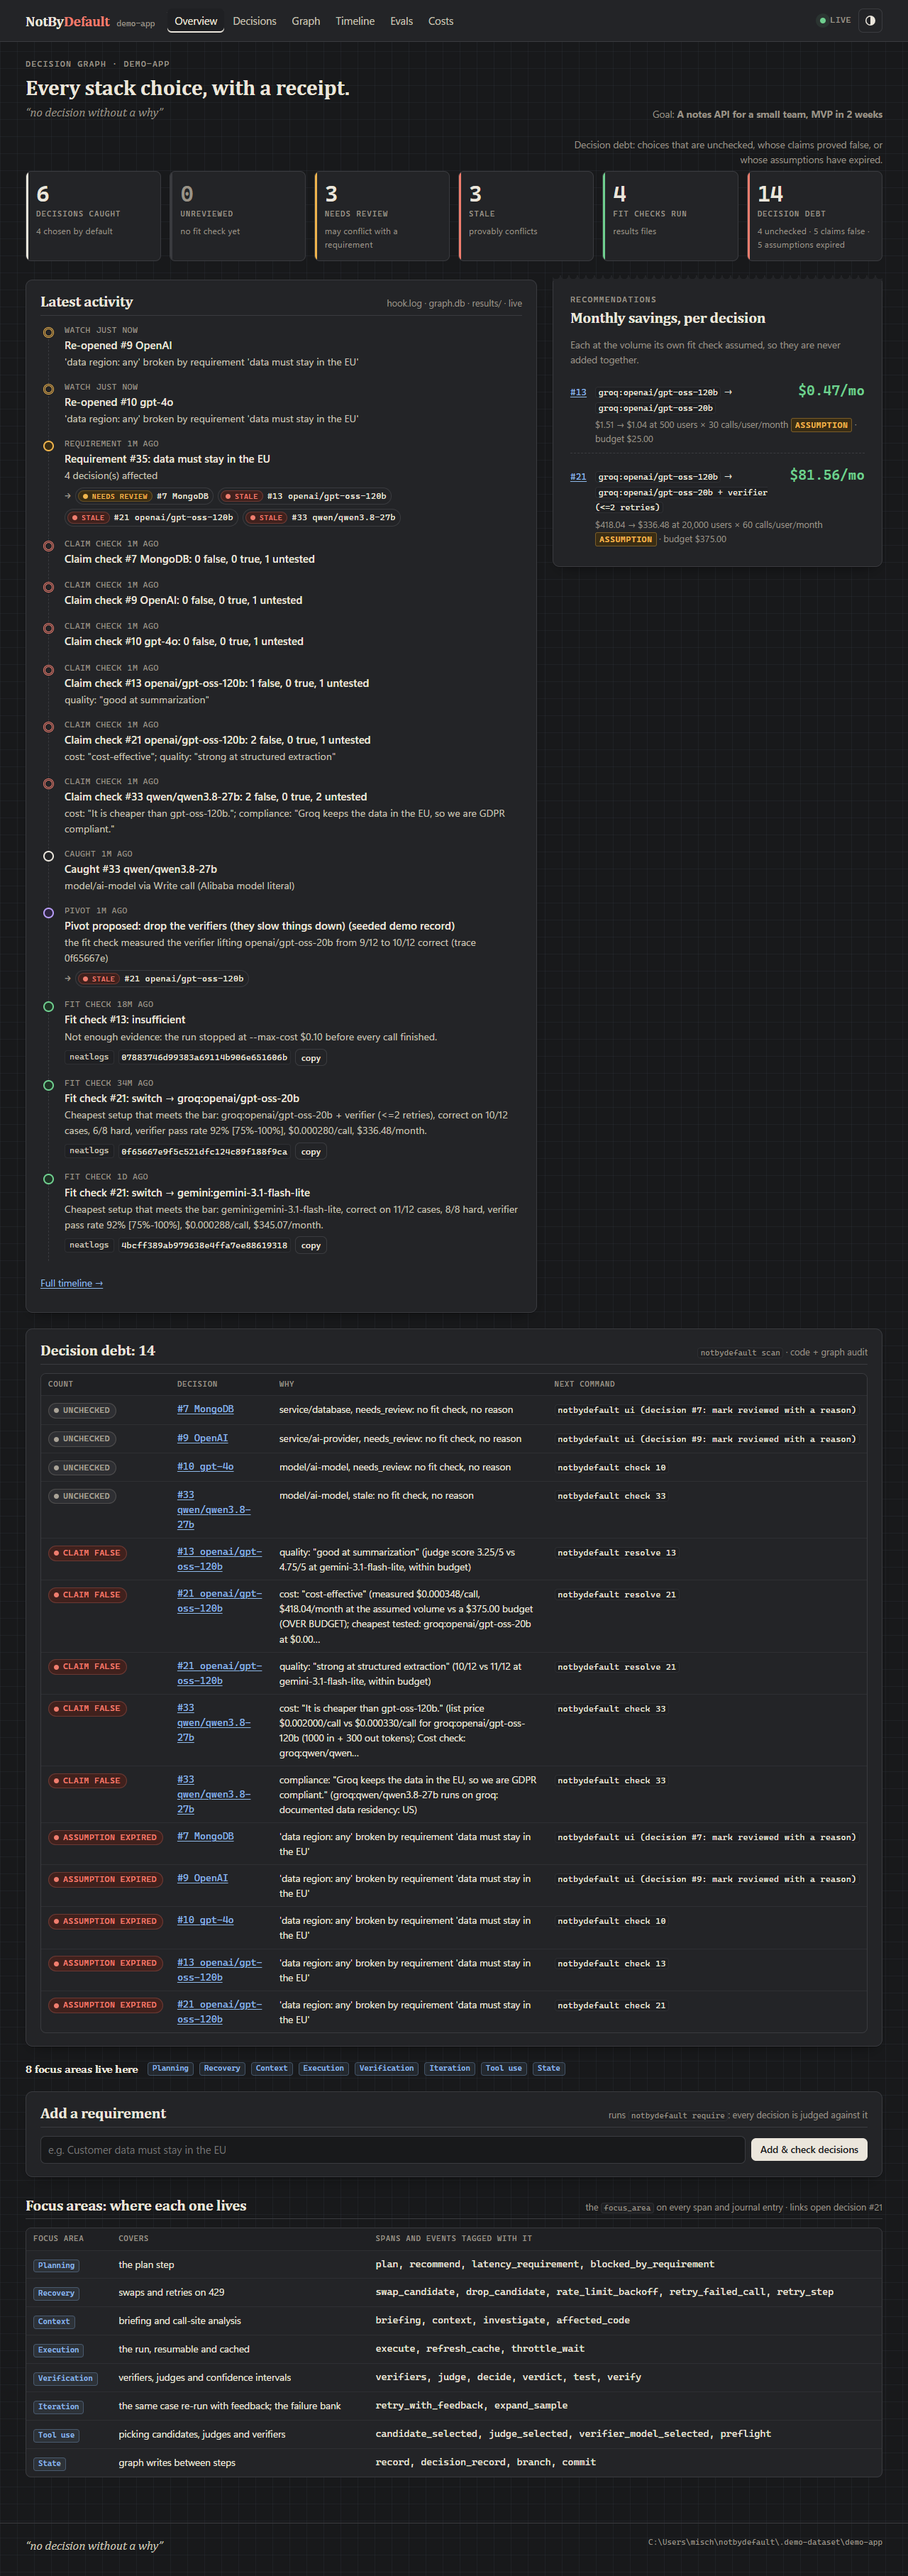
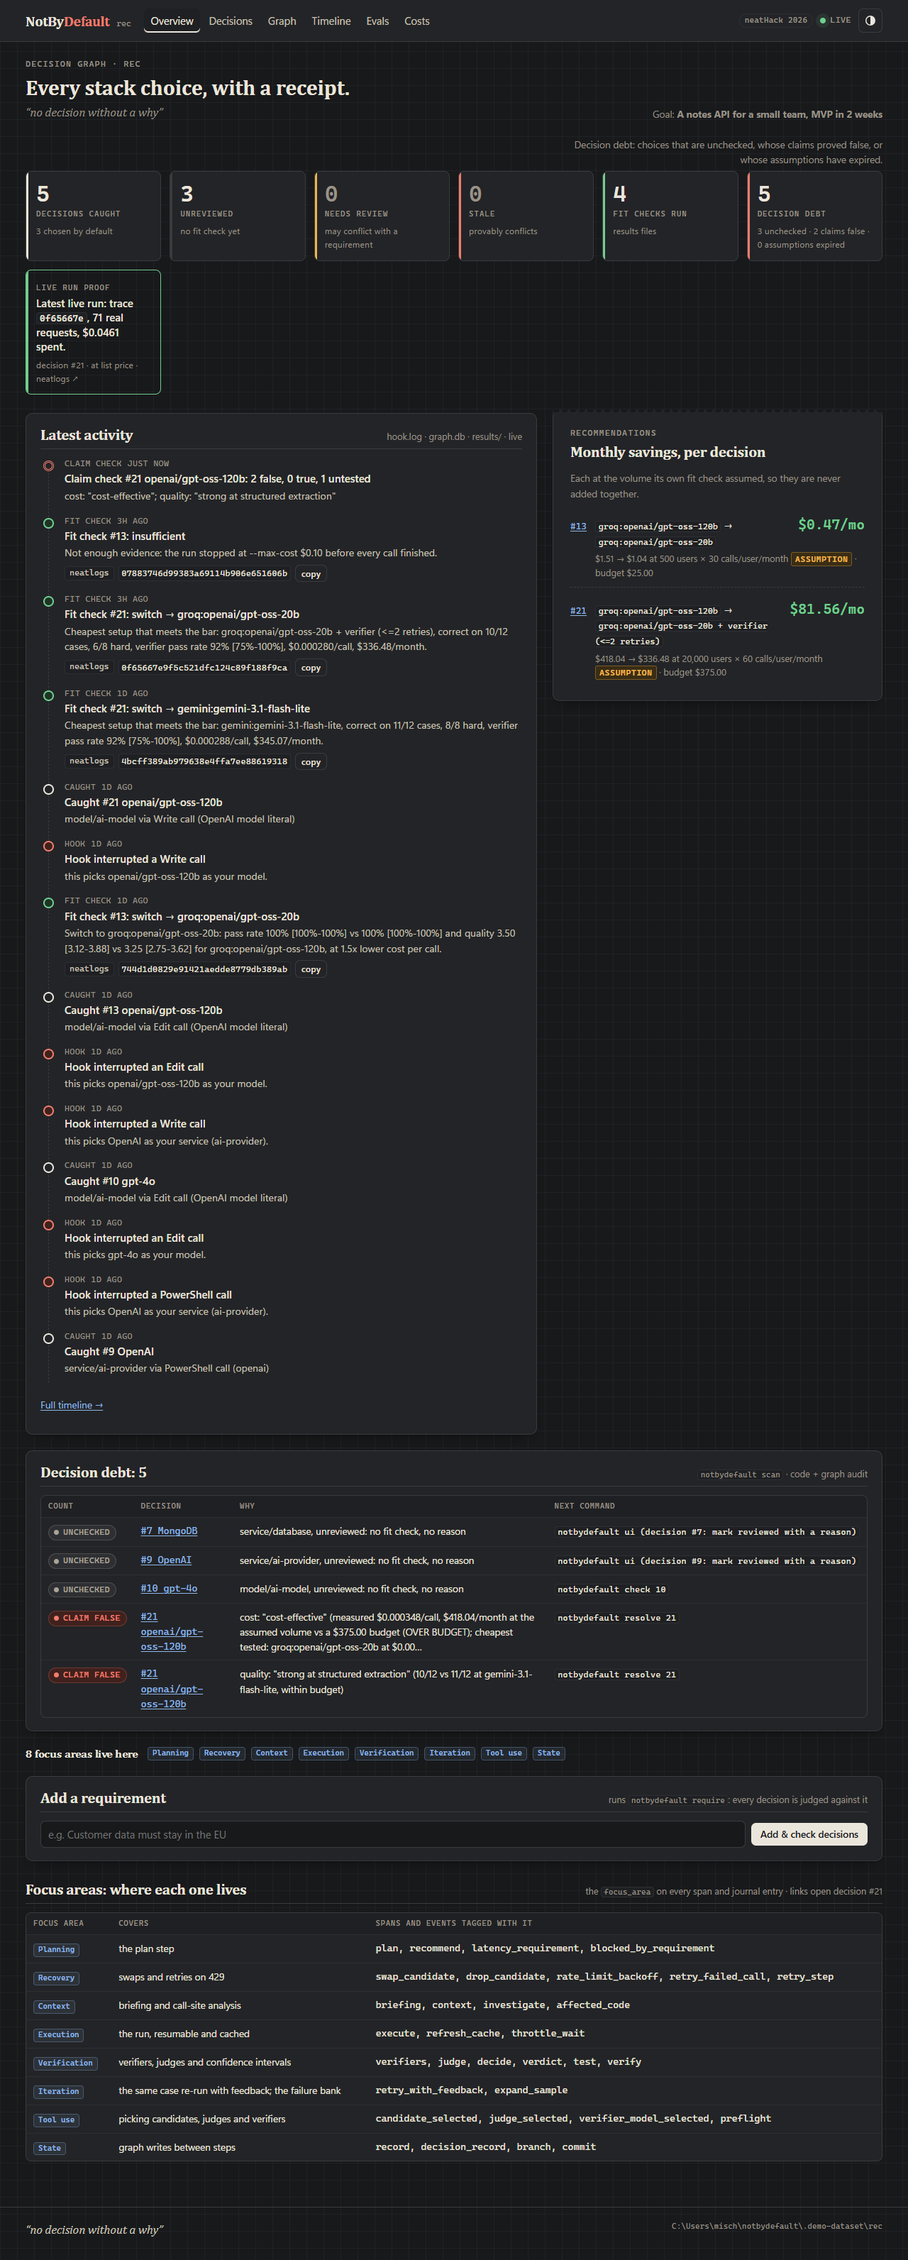
scan --history: read-only audit of the last 100 commits; UI proof card, pinned numbers, badge
`notbydefault scan --history` lists up to the last 100 commits (git log via subprocess) and
runs the EXISTING detector on each commit's diff (*.py, *.yaml, *.toml, requirements*.txt):
detect.detect_file_change(path, removed lines, added line) for model literals and new
manifest entries, and detect.detect_shell(line) for lines that are install commands. A
literal already on a removed line of the same file (a moved or edited line) isn't new.
detect.py is unchanged; no regex fallback was needed. It prints one block:

  Repo history scan: scanned last N commits. Found K decision-shaped line(s) across J
  commit(s). Read-only: the graph is not touched.
  Examples (up to 3):
    - <short sha> <date> <path>: <line>

No graph writes, no new tables or node types, no UI, no Entire calls; works without a
Decision Graph.

- notbydefault/scan.py: history_hits() (diff -> hits) and scan_history().
- notbydefault/cli.py: the --history flag on `scan`.
- tests/test_scan_history.py: a real 3-commit repo in a temp dir (model literal, benign,
  pymongo added to requirements.txt): exactly 2 hits across 2 commits, no .notbydefault/.
- README: one row for `scan --history`.

UI polish (data-driven, shown only when the data exists; no new routes):
- Overview: a "live run proof" tile after the decision-debt tile: "Latest live run: trace
  <8 chars>, <n> real requests, $<spent> spent." It opens the trace in neatlogs in a new tab
[…]

diff --git a/notbydefault/ui/templates/_overview_live.html b/notbydefault/ui/templates/_overview_live.html
@@ -8,6 +8,7 @@
   <a class="tile bad{{ ' zero' if not ov.count.stale }}" href="/decisions?status=stale"><div class="n">{{ ov.count.stale }}</div><div class="l">stale</div><div class="sub">provably conflicts</div></a>
   <a class="tile ok{{ ' zero' if not ov.checks }}" href="/timeline"><div class="n">{{ ov.checks }}</div><div class="l">fit checks run</div><div class="sub">results files</div></a>
   {% if ov.debt %}<a class="tile bad{{ ' zero' if not ov.debt.score }}" href="#debt" title="one point per unchecked decision, false claim and decision with an expired assumption"><div class="n">{{ ov.debt.score }}</div><div class="l">decision debt</div><div class="sub">{{ ov.debt.unchecked|length + ov.debt.unrecorded|length }} unchecked · {{ ov.debt.claims_false|length }} claims false · {{ ov.debt.expired|length }} assumptions expired</div></a>{% endif %}
+  {% if ov.live_run %}{% set lr = ov.live_run %}<a class="tile live-proof" id="live-proof"{% if lr.trace_url %} href="{{ lr.trace_url }}" target="_blank" rel="noopener noreferrer"{% else %} href="/decisions/{{ lr.decision_id }}#fit-evidence"{% endif %} title="decision #{{ lr.decision_id }}: list price of every live request, {{ lr.attempts }} attempt(s); opens the trace in neatlogs"><div class="l">live run proof</div><div class="proof">Latest live run: trace <code>{{ (lr.trace_id or "-")[:8] }}</code>, {{ lr.requests }} real requests, ${{ "%.4f"|format(lr.spent) }} spent.</div><div class="sub">decision #{{ lr.decision_id }} · at list price{% if lr.trace_url %} · neatlogs ↗{% endif %}</div></a>{% endif %}
 </section>
 <div class="grid-2">
   <section class="sheet" aria-labelledby="h-activity">

diff --git a/notbydefault/ui/templates/decision.html b/notbydefault/ui/templates/decision.html
@@ -14,6 +14,19 @@
   </div>
   <a class="btn" href="/graph?focus={{ d.id }}">Show neighbourhood in graph</a>
 </div>
+{% if v.fit and v.fit.table and v.fit.table.headers %}{% set t = v.fit.table %}
+{% set ci = t.headers.index("correct (95% CI)") if "correct (95% CI)" in t.headers else -1 %}{% set mi = t.headers.index("monthly") if "monthly" in t.headers else -1 %}
+{% set cur = (t.rows|selectattr("current")|list)[:1] %}{% set rec = (t.rows|selectattr("recommended")|rejectattr("current")|list)[:1] %}
+{% if ci >= 0 and mi >= 0 and cur and rec and cur[0].cells[mi].startswith("$") and rec[0].cells[mi].startswith("$") %}
+{% set cm = cur[0].cells[mi][1:]|replace(",", "")|float %}{% set rm = rec[0].cells[mi][1:]|replace(",", "")|float %}
+<section class="pinned-numbers" id="pinned-numbers" aria-label="Key numbers from the fit check">
+  <div><b>{{ cur[0].cells[ci].split(" ")[0] }}</b><span>correct today</span></div>
+  <div><b>${{ "%.0f"|format(cm) }}/mo</b><span>today</span></div>
+  <div class="rec"><b>${{ "%.0f"|format(rm) }}/mo</b><span>recommended ({{ rec[0].cells[ci].split(" ")[0] }})</span></div>
+  {% if cm > rm %}<div class="save"><b>${{ "%.0f"|format(cm - rm) }}</b><span>projected saving/mo</span></div>{% endif %}
+  <p class="small muted">From this decision's fit check, at the assumed volume (<mark class="assume">ASSUMPTION</mark>); list prices.</p>
+</section>
+{% endif %}{% endif %}
 
 <div class="grid-2">
   <article class="receipt" aria-labelledby="h-receipt">

diff --git a/notbydefault/ui/static/app.css b/notbydefault/ui/static/app.css
@@ -358,3 +358,15 @@ a.focus:hover, a.focus:focus-visible { background: color-mix(in srgb, var(--acce
 
 .override-guard { margin: 0 0 16px; padding: 10px 14px; border: 1px solid var(--warn); border-left-width: 5px; border-radius: 8px; background: var(--warn-bg); color: var(--warn); font-weight: 600; }
 .override-guard a, .override-guard code { color: inherit; }
+
+.tile.live-proof { border-color: var(--ok); background: color-mix(in srgb, var(--ok-bg) 70%%, var(--sheet)); }
+.tile.live-proof::after { background: var(--ok); }
+.tile.live-proof .proof { font-weight: 600; line-height: 1.35; margin: 4px 0; }
+.pinned-numbers { display: flex; flex-wrap: wrap; gap: 12px 28px; align-items: baseline; margin: 0 0 18px; padding: 14px 18px; border: 1px solid var(--rule-2); border-radius: 10px; background: var(--sheet); }
+.pinned-numbers div { display: flex; flex-direction: column; }
+.pinned-numbers b { font: 700 1.9rem/1.1 var(--mono); }
+.pinned-numbers span { font-size: .8rem; color: var(--muted); }
+.pinned-numbers .rec b { color: var(--ok); } .pinned-numbers .save b { color: var(--warn); }
+.pinned-numbers p { flex-basis: 100%%; margin: 0; }
+.hack-badge { font: 600 .68rem/1 var(--mono); letter-spacing: .04em; padding: 4px 7px; border: 1px solid var(--rule-2); border-radius: 999px; color: var(--muted); text-decoration: none; }
+.hack-badge:hover { color: var(--ink); border-color: var(--ink); }

diff --git a/notbydefault/ui/templates/base.html b/notbydefault/ui/templates/base.html
@@ -24,6 +24,7 @@
     </nav>
     <div class="mast-tools">
       {% if read_only %}<span class="ro-badge" title="Started with --read-only: actions are disabled">read-only</span>{% endif %}
+      <a class="hack-badge" href="https://github.com/Mischa0099/notbydefault" target="_blank" rel="noopener noreferrer" title="NotByDefault on GitHub">neatHack 2026</a>
       <span class="live" id="live" title="Polling graph.db every 2s"><i></i>live</span>
       <button class="btn icon-btn" id="theme-toggle" type="button" aria-label="Toggle dark mode">
         <svg width="16" height="16" viewBox="0 0 16 16" aria-hidden="true"><path fill="currentColor" d="M8 1a7 7 0 1 0 0 14A7 7 0 0 0 8 1Zm0 1.5v11a5.5 5.5 0 0 1 0-11Z"/></svg>

diff --git a/notbydefault/scan.py b/notbydefault/scan.py
@@ -163,3 +163,68 @@ def scan(project: Path, record: bool = False, out=print) -> int:
     else:
         out("No decision debt.")
     return 0
+
+
+# --- retroactive audit: `scan --history` (read-only; nothing is written) --------------------
+
+HISTORY_PATHS = ("*.py", "*.yaml", "*.toml", "requirements*.txt")
+
+
+def _git(project: Path, *args: str) -> str:
+    import subprocess
+    return subprocess.run(["git", "-C", str(project), *args], capture_output=True, text=True,
+                          encoding="utf-8", errors="replace", check=True).stdout
+
+
+def history_hits(diff: str) -> list[tuple[str, str]]:
+    """(path, added line) for each added line of a unified diff that the existing detector
+    (detect.detect_file_change / detect_shell) calls a decision; a literal or package already
+    on a removed line of the same file (a moved or edited line) is not new."""
+    from notbydefault.detect import detect_file_change, detect_shell
+    files: dict[str, tuple[list[str], list[str]]] = {}
+    path = None
+    for line in diff.splitlines():
+        if line.startswith("+++ "):
+            path = line[6:] if line.startswith("+++ b/") else None
+        elif line.startswith("--- ") or path is None:
+            continue
+        elif line.startswith("+"):
+            files.setdefault(path, ([], []))[1].append(line[1:])
+        elif line.startswith("-"):
+            files.setdefault(path, ([], []))[0].append(line[1:])
+    hits = []
+    for path, (removed, added) in files.items():
+        old = "\n".join(removed)
+        for line in added:
+            if detect_file_change(path, old, line) or detect_shell(line.strip(), None):
+                hits.append((path, line.strip()))
+    return hits
+
+
+def scan_history(project: Path, limit: int = 100, out=print) -> int:
+    """Run the decision detector over the last `limit` commits' diffs and print one block."""
+    import subprocess
+    project = Path(project).resolve()
+    try:
+        log = _git(project, "log", f"-n{limit}", "--format=%H%x09%h%x09%ad", "--date=short")
+    except (OSError, subprocess.CalledProcessError) as e:
+        out(f"Repo history scan: not a git repository or git failed ({e}).")
+        return 1
+    commits = [line.split("\t") for line in log.splitlines() if line.count("\t") == 2]
+    examples, n_hits, n_commits = [], 0, 0
+    for sha, short, date in commits:
+        diff = _git(project, "show", "--format=", "--unified=0", "--no-color", "--no-ext-diff",
+                    "--diff-merges=first-parent", sha, "--", *HISTORY_PATHS)
+        hits = history_hits(diff)
+        if hits:
+            n_hits += len(hits)
+            n_commits += 1
+            examples += [(short, date, p, l) for p, l in hits[:3 - len(examples)]]
+    out(f"Repo history scan: scanned last {len(commits)} commits. Found {n_hits} "
+        f"decision-shaped line(s) across {n_commits} commit(s). Read-only: the graph is not "
+        "touched.")
+    if examples:
+        out("Examples (up to 3):")
+        for short, date, p, l in examples:
+            out(f"  - {short} {date} {p}: {l[:100]}")
+    return 0

diff --git a/tests/test_scan_history.py b/tests/test_scan_history.py
@@ -1,0 +1,27 @@
+import subprocess
+
+from notbydefault.scan import scan_history
+
+
+def _commit(repo, name, text, msg):
+    (repo / name).write_text(text, encoding="utf-8")
+    subprocess.run(["git", "-C", str(repo), "add", name], check=True, capture_output=True)
+    subprocess.run(["git", "-C", str(repo), "commit", "-q", "-m", msg], check=True,
+                   capture_output=True)
+
+
+def test_history_scan_counts_decision_shaped_lines_without_a_graph(tmp_path):
+    subprocess.run(["git", "init", "-q", str(tmp_path)], check=True, capture_output=True)
+    for k, v in (("user.email", "t@example.com"), ("user.name", "t"), ("commit.gpgsign", "false")):
+        subprocess.run(["git", "-C", str(tmp_path), "config", k, v], check=True)
+    _commit(tmp_path, "app.py", 'MODEL = "gpt-4o"\n', "model literal")
+    _commit(tmp_path, "util.py", "def add(a, b):\n    return a + b\n", "benign")
+    _commit(tmp_path, "requirements.txt", "pymongo==4.6\n", "pip install pymongo")
+
+    lines = []
+    assert scan_history(tmp_path, out=lines.append) == 0
+    text = "\n".join(lines)
+    assert "scanned last 3 commits" in text
+    assert "Found 2 decision-shaped line(s) across 2 commit(s)" in text
+    assert "app.py: MODEL = \"gpt-4o\"" in text and "requirements.txt: pymongo==4.6" in text
+    assert not (tmp_path / ".notbydefault").exists()       # read-only: no graph created

diff --git a/notbydefault/ui/data.py b/notbydefault/ui/data.py
@@ -636,8 +636,14 @@ def overview(project: Path, snap: Snapshot) -> dict:
               + (anchor if anchor in present or anchor in ("fit-steps", "affected", "fit-evidence",
                                                            "failure-bank") else "agent-journal")}
              for a, covers, spans, anchor in FOCUS_MAP]
+    # the latest results file that recorded a finished live run (scripts/live_demo_run.py)
+    live = max((c for c in checks if (c.data.get("live_run") or {}).get("traces")),
+               key=lambda c: c.run_at, default=None)
+    live_run = None if live is None else dict(
+        live.data["live_run"], decision_id=live.decision_id,
+        trace_id=live.data.get("trace_id"), trace_url=trace_url(live.data.get("trace_id")))
     return {"decisions": len(decisions), "count": count, "checks": len(checks), "debt": debt,
-            "focus": focus, "focus_decision": focus_did,
+            "focus": focus, "focus_decision": focus_did, "live_run": live_run,
             "by_default": sum(by_default(d) for d in decisions), "savings": savings,
             "goal": next((g["label"] for g in snap.of_type("goal")), None)}
 

diff --git a/notbydefault/cli.py b/notbydefault/cli.py
@@ -251,6 +251,9 @@ def cmd_watch(args) -> int:
 
 
 def cmd_scan(args) -> int:
+    if args.history:
+        from notbydefault.scan import scan_history
+        return scan_history(Path(args.project))
     from notbydefault.scan import scan
     return scan(Path(args.project), record=args.record)
 
@@ -500,6 +503,8 @@ def main(argv: list[str] | None = None) -> int:
     p.add_argument("--project", default=".", help="project dir (default: current dir)")
     p.add_argument("--record", action="store_true",
                    help="add choices found in the code but not in the graph as unreviewed decisions")
+    p.add_argument("--history", action="store_true",
+                   help="read-only audit: run the decision detector over the last 100 commits' diffs")
     p.set_defaults(func=cmd_scan)
 
     p = sub.add_parser("ui", help="local web UI for the Decision Graph (127.0.0.1 only)")

diff --git a/README.md b/README.md
@@ -79,6 +79,7 @@ python -m notbydefault ui --project path/to/app        # http://127.0.0.1:8765
 | `watch` | Reopen decisions whose assumptions changed |
 | `why "<question>"` | Answer from recorded decisions only, with sources |
 | `scan` | Decision debt: unchecked choices, false claims, expired assumptions |
+| `scan --history` | Scans the last 100 commits and reports decision-shaped changes without touching the graph. Read-only audit. |
 | `ui` | Local web UI: decision graph, receipts, timeline, evals, costs |
 
 The demo project's state (`demo-app/.notbydefault/`: graph, results, response caches) is gitignored. A fresh clone therefore can't replay the #21 run offline. The published evidence is the decision record and the screenshots. On the author's machine, `scripts/recording_setup.py` builds a disposable copy that replays the live run from cache with no requests (see [`docs/recording_plan.md`](docs/recording_plan.md)).
